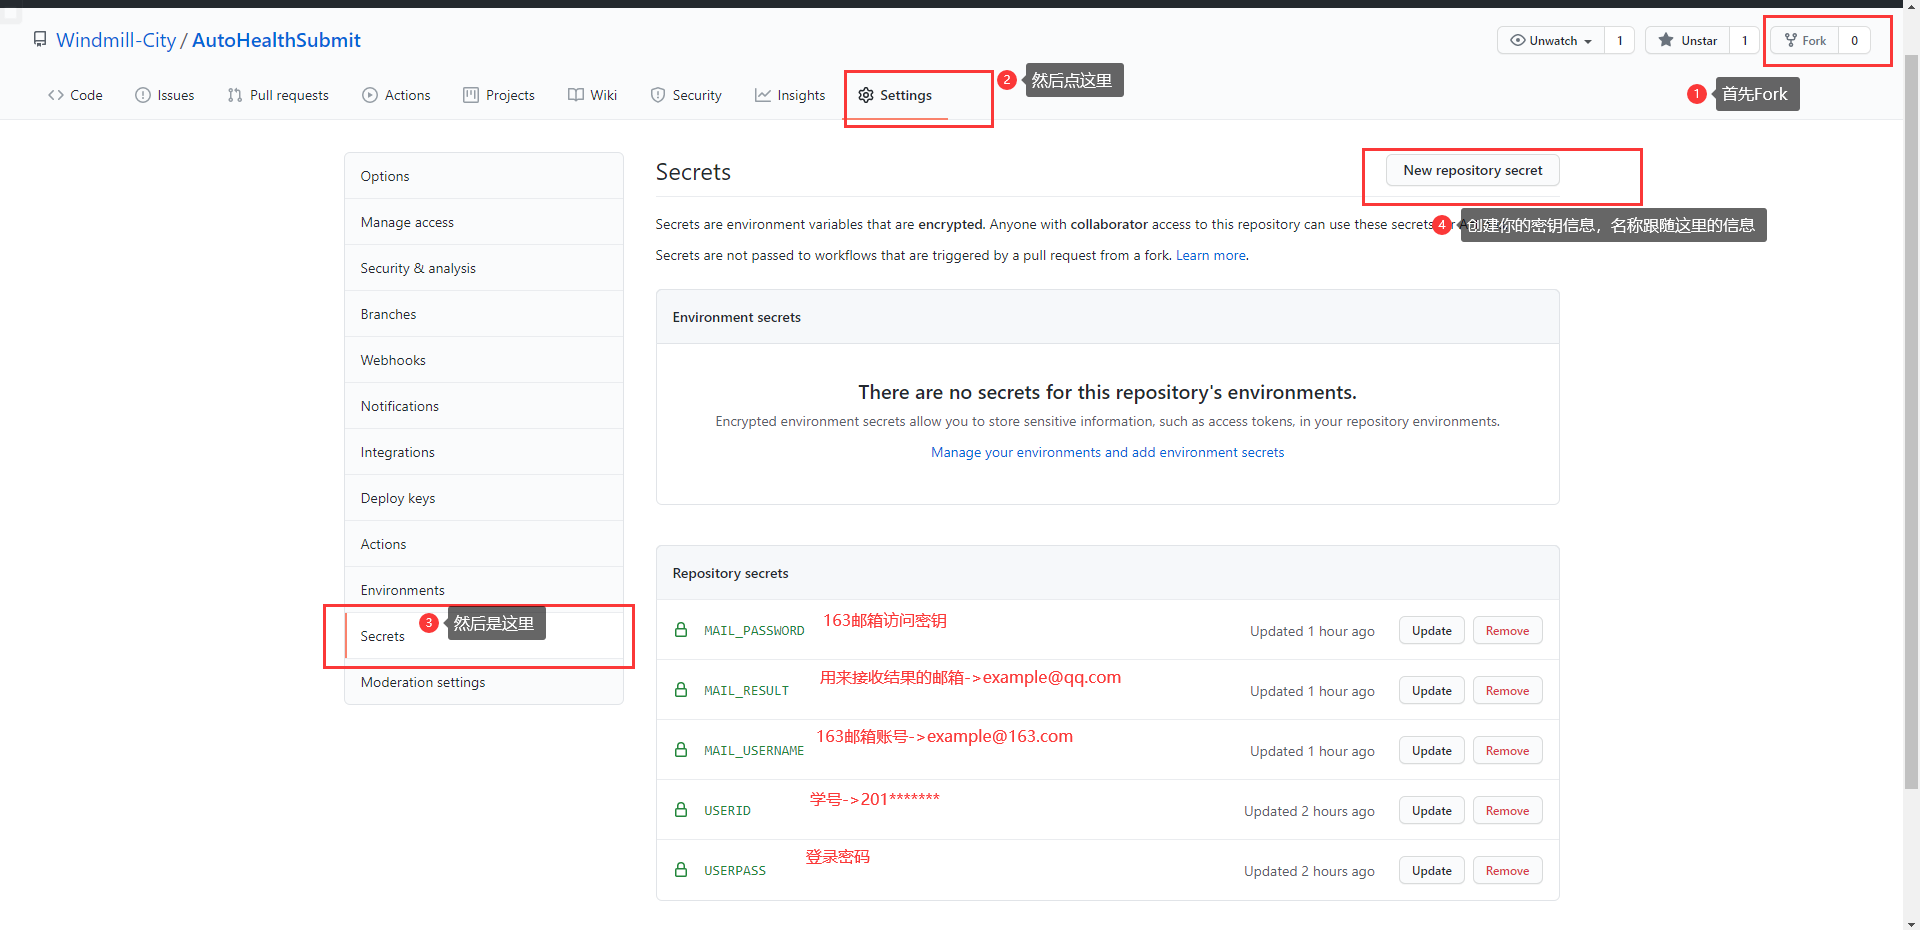
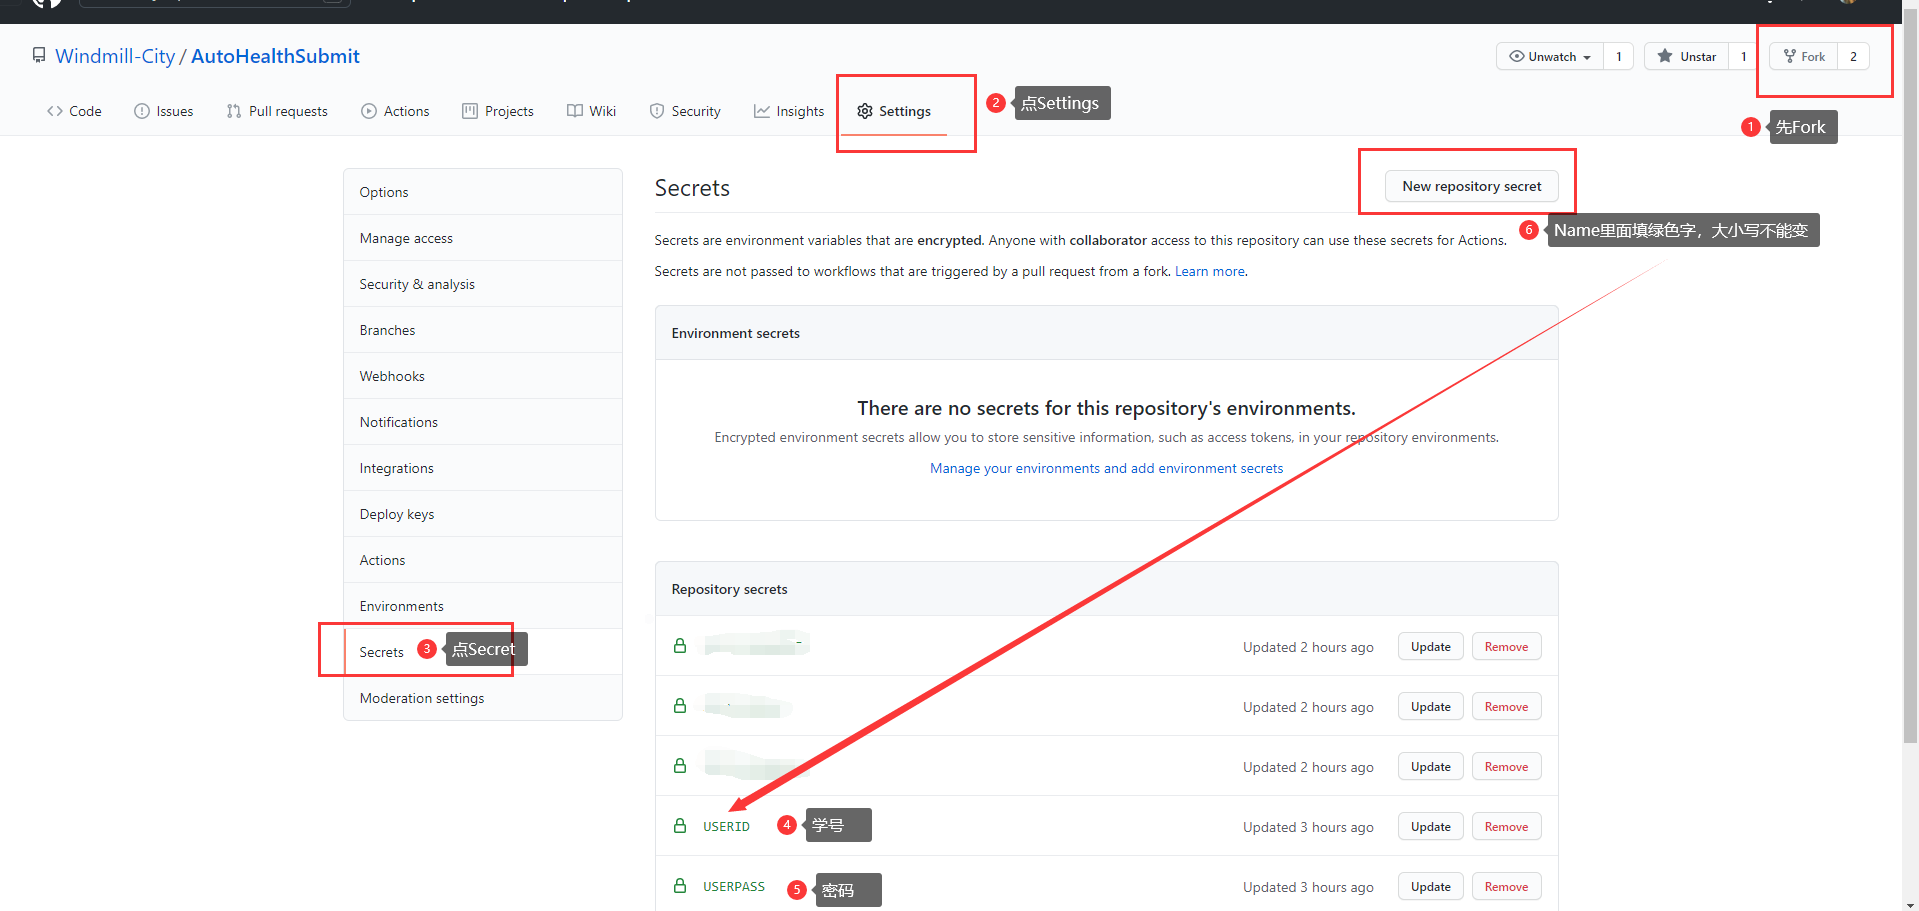
update readme

diff --git a/README.md b/README.md
@@ -1,13 +1,29 @@
 # AutoHealthSubmit
 Automatic submit daily health data
 # 如何使用
-首先你要注册个163邮箱来发送邮件（可选操作，看下文）
+**如果你仅在`打卡失败`时才要邮件通知看[这里](https://github.com/Windmill-City/AutoHealthSubmit/tree/no-mail)**
+
+**如果你`不论打卡是否失败`都要邮件通知，看下文**
+
+0. 首先你要注册个163邮箱来发送邮件
 ![开通邮件服务](https://github.com/Windmill-City/AutoHealthSubmit/blob/main/开通邮件服务.png)
 ![授权](https://github.com/Windmill-City/AutoHealthSubmit/blob/main/授权.png)
-不用邮件的操作流程
-![不用邮件](https://github.com/Windmill-City/AutoHealthSubmit/blob/main/不用邮件.png)
-![编辑](https://github.com/Windmill-City/AutoHealthSubmit/blob/main/编辑.png)
-然后在Settings->Serrets里面设置你的信息
-![操作流程](https://github.com/Windmill-City/AutoHealthSubmit/blob/main/操作流程.png)
-然后点击右上角的Star测试运行，点了之后要UnStar再Star才会再运行
-![运行](https://github.com/Windmill-City/AutoHealthSubmit/blob/main/运行.png)
+1. 点击右上角的`Fork`复制一份你的副本
+2. 然后在`Settings->Secrets`里面添加你的账号密码和邮箱信息
+   
+   在 New Secret 的 Name 填下面`大写`的变量名称，不能变
+   - `USERID` -- 学号
+   - `USERPASS` -- 密码
+   - `MAIL_USERNAME` -- 用来发送邮件的163邮箱
+   - `MAIL_PASSWORD` -- 163邮箱的授权密码(不是登录密码)
+   - `MAIL_RESULT` -- 用来接收打卡情况的邮箱
+   ![操作流程](https://github.com/Windmill-City/AutoHealthSubmit/blob/main/操作流程.png)
+3. **点`Action`，里面会提示你Action是`关闭(Disabled)`的，你要`Enable`它**
+4. 然后点击右上角的`Star`测试运行，运行一次之后要`UnStar`再`Star`才会再运行
+   ![运行](https://github.com/Windmill-City/AutoHealthSubmit/blob/main/运行.png)
+   
+   点`Action`看运行状态
+   ![运行状态](https://github.com/Windmill-City/AutoHealthSubmit/blob/main/运行状态.png)
+5. 这个脚本每天凌晨4：00触发
+# 参考文献
+https://github.com/Saujyun/AutoAction
